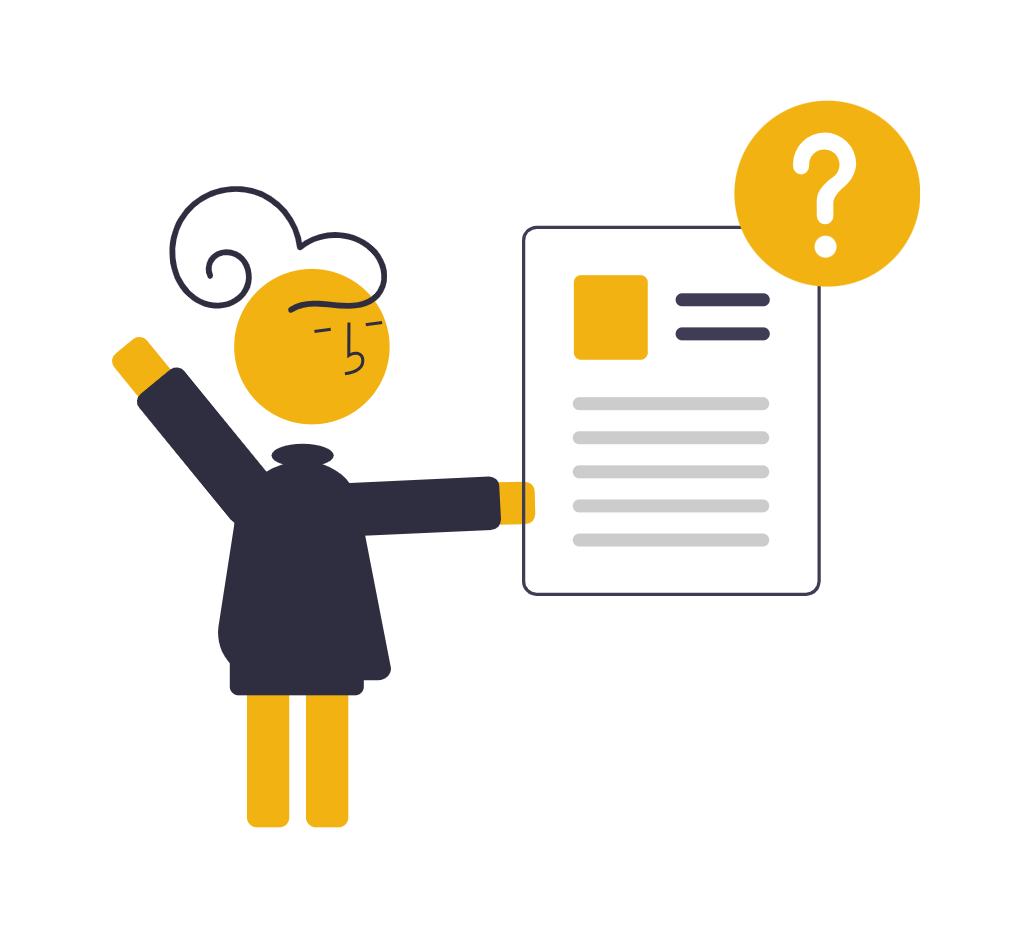
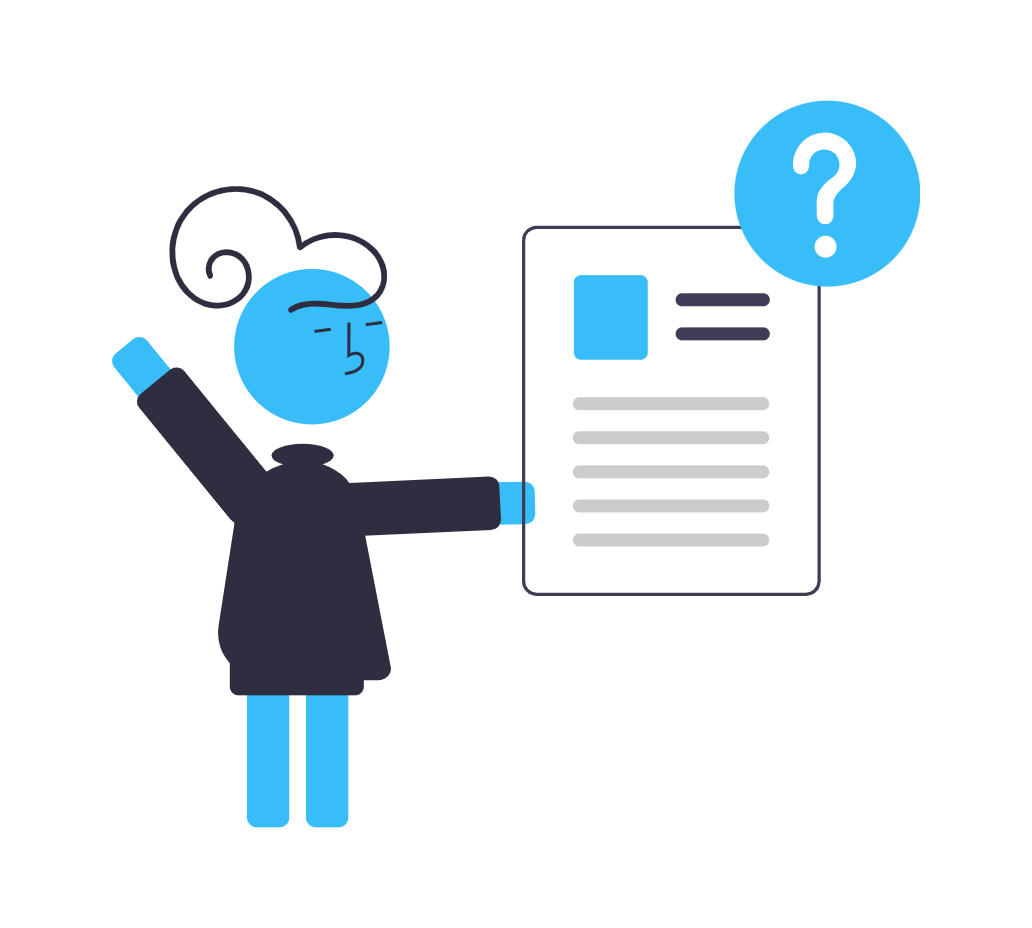
finalll

diff --git a/pages/instructor_dashboard.php b/pages/instructor_dashboard.php
@@ -83,7 +83,7 @@ if (isset($_SESSION['course_message'])) {
                 <nav class="hidden md:flex items-center space-x-6">
                     <?php foreach ($menuItems as $item): ?>
                         <a href="<?= htmlspecialchars($item[1]) ?>"
-                            class="text-gray-900 hover:text-yellow-500 transition-colors">
+                            class="text-gray-900 hover:text-blue-500 transition-colors">
                             <?= htmlspecialchars($item[0]) ?>
                         </a>
                     <?php endforeach; ?>
@@ -91,9 +91,9 @@ if (isset($_SESSION['course_message'])) {
                 <div class="flex items-center space-x-4">
                     <?php if (!$isLoggedIn): ?>
                         <a href="./login.php"
-                            class="p-2 px-4 bg-yellow-400 text-white rounded-full hover:bg-white hover:text-yellow-400 hover:border hover:border-yellow-400 transition-colors">Login</a>
+                            class="p-2 px-4 bg-blue-400 text-white rounded-full hover:bg-white hover:text-blue-400 hover:border hover:border-blue-400 transition-colors">Login</a>
                         <a href="./register.php"
-                            class="p-2 px-4 border border-yellow-400 text-yellow-400 rounded-full hover:bg-yellow-400 hover:text-white transition-colors">Register</a>
+                            class="p-2 px-4 border border-blue-400 text-blue-400 rounded-full hover:bg-blue-400 hover:text-white transition-colors">Register</a>
                     <?php else: ?>
                         <a href="./logout.php"
                             class="p-2 px-4 bg-red-400 text-white rounded-full hover:bg-white hover:text-red-400 hover:border hover:border-red-400 transition-colors">Logout</a>
@@ -109,7 +109,7 @@ if (isset($_SESSION['course_message'])) {
                 <div class="p-5">
                     <div class="flex items-center">
                         <div class="flex-shrink-0">
-                            <i class="ri-book-open-line text-2xl text-yellow-400"></i>
+                            <i class="ri-book-open-line text-2xl text-blue-400"></i>
                         </div>
                         <div class="ml-5 w-0 flex-1">
                             <dl>
@@ -126,7 +126,7 @@ if (isset($_SESSION['course_message'])) {
                 <div class="p-5">
                     <div class="flex items-center">
                         <div class="flex-shrink-0">
-                            <i class="ri-user-line text-2xl text-yellow-400"></i>
+                            <i class="ri-user-line text-2xl text-blue-400"></i>
                         </div>
                         <div class="ml-5 w-0 flex-1">
                             <dl>
@@ -141,7 +141,7 @@ if (isset($_SESSION['course_message'])) {
                 <div class="p-5">
                     <div class="flex items-center">
                         <div class="flex-shrink-0">
-                            <i class="ri-bar-chart-line text-2xl text-yellow-400"></i>
+                            <i class="ri-bar-chart-line text-2xl text-blue-400"></i>
                         </div>
                         <div class="ml-5 w-0 flex-1">
                             <dl>
@@ -161,7 +161,7 @@ if (isset($_SESSION['course_message'])) {
             <div class="px-4 py-5 sm:px-6 flex justify-between items-center">
                 <h2 class="text-xl font-semibold text-gray-900">Course Management</h2>
                 <button id="newCourseBtn"
-                    class="inline-flex items-center px-4 py-2 border border-transparent rounded-full shadow-sm text-sm font-medium text-white bg-yellow-400 hover:bg-yellow-500">
+                    class="inline-flex items-center px-4 py-2 border border-transparent rounded-full shadow-sm text-sm font-medium text-white bg-blue-400 hover:bg-blue-500">
                     <i class="ri-add-line mr-2"></i>
                     New Course
                 </button>
@@ -199,7 +199,7 @@ if (isset($_SESSION['course_message'])) {
                                     </td>
                                     <td class="px-6 py-4 whitespace-nowrap">
                                         <span
-                                            class="px-2 inline-flex text-xs leading-5 font-semibold rounded-full bg-yellow-100 text-yellow-800">
+                                            class="px-2 inline-flex text-xs leading-5 font-semibold rounded-full bg-blue-100 text-blue-800">
                                             <?= htmlspecialchars($course['category'] ?: 'Uncategorized'); ?>
                                         </span>
                                     </td>
@@ -214,7 +214,7 @@ if (isset($_SESSION['course_message'])) {
                                     </td>
                                     <td class="px-6 py-4 whitespace-nowrap text-right text-sm font-medium">
 
-                                        <button class="text-yellow-600 hover:text-yellow-900 mr-4"
+                                        <button class="text-blue-600 hover:text-blue-900 mr-4"
                                             onclick="window.location.href='editCourse.php?id=<?php echo $course['id']; ?>'">
                                             <i class="ri-edit-line text-lg"></i>
                                         </button>
@@ -245,14 +245,14 @@ if (isset($_SESSION['course_message'])) {
                     <div>
                         <label for="title" class="block text-sm font-medium text-gray-700 mb-4">Title</label>
                         <input type="text" name="title" id="title" required
-                            class="mt-1 block w-full rounded-md p-2 border border-gray-200 shadow-sm focus:border-yellow-500 focus:ring-yellow-500">
+                            class="mt-1 block w-full rounded-md p-2 border border-gray-200 shadow-sm focus:border-blue-500 focus:ring-blue-500">
                     </div>
 
                     <div>
                         <label for="description"
                             class="block text-sm font-medium text-gray-700 mb-4">Description</label>
                         <textarea id="description" name="description" rows="3" required
-                            class="mt-1 block w-full rounded-md border border-gray-200 shadow-sm focus:border-yellow-500 focus:ring-yellow-500"></textarea>
+                            class="mt-1 block w-full rounded-md border border-gray-200 shadow-sm focus:border-blue-500 focus:ring-blue-500"></textarea>
                     </div>
 
                     <div class="grid grid-cols-3 gap-4">
@@ -261,7 +261,7 @@ if (isset($_SESSION['course_message'])) {
                             <div class="relative">
                                 <span class="absolute inset-y-0 left-0 pl-3 flex items-center text-gray-500">$</span>
                                 <input type="number" name="price" id="price" min="0" step="0.01" required
-                                    class="mt-1 block w-full rounded-md p-2 pl-7 border border-gray-200 shadow-sm focus:border-yellow-500 focus:ring-yellow-500">
+                                    class="mt-1 block w-full rounded-md p-2 pl-7 border border-gray-200 shadow-sm focus:border-blue-500 focus:ring-blue-500">
                             </div>
                         </div>
 
@@ -269,7 +269,7 @@ if (isset($_SESSION['course_message'])) {
                             <label for="difficulty"
                                 class="block text-sm font-medium text-gray-700 mb-4">Difficulty</label>
                             <select id="difficulty" name="difficulty" required
-                                class="mt-1 block w-full rounded-md p-2 border border-gray-200 shadow-sm focus:border-yellow-500 focus:ring-yellow-500">
+                                class="mt-1 block w-full rounded-md p-2 border border-gray-200 shadow-sm focus:border-blue-500 focus:ring-blue-500">
                                 <option value="Beginner">Beginner</option>
                                 <option value="Intermediate">Intermediate</option>
                                 <option value="Advanced">Advanced</option>
@@ -283,7 +283,7 @@ if (isset($_SESSION['course_message'])) {
                                     <div class="relative">
                                         <input type="number" name="duration_hours" id="duration_hours" min="0"
                                             placeholder="0" required
-                                            class="mt-1 block w-full rounded-md p-2 pr-14 border border-gray-200 shadow-sm focus:border-yellow-500 focus:ring-yellow-500 text-center">
+                                            class="mt-1 block w-full rounded-md p-2 pr-14 border border-gray-200 shadow-sm focus:border-blue-500 focus:ring-blue-500 text-center">
                                         <span
                                             class="absolute inset-y-0 right-0 pr-3 flex items-center text-gray-500 text-sm">hours</span>
                                     </div>
@@ -292,7 +292,7 @@ if (isset($_SESSION['course_message'])) {
                                     <div class="relative">
                                         <input type="number" name="duration_minutes" id="duration_minutes" min="0"
                                             max="59" placeholder="0" required
-                                            class="mt-1 block w-full rounded-md p-2 pr-16 border border-gray-200 shadow-sm focus:border-yellow-500 focus:ring-yellow-500 text-center">
+                                            class="mt-1 block w-full rounded-md p-2 pr-16 border border-gray-200 shadow-sm focus:border-blue-500 focus:ring-blue-500 text-center">
                                         <span
                                             class="absolute inset-y-0 right-0 pr-3 flex items-center text-gray-500 text-sm">mins</span>
                                     </div>
@@ -308,7 +308,7 @@ if (isset($_SESSION['course_message'])) {
                             <div class="space-y-1 text-center">
                                 <div class="flex text-sm text-gray-600 justify-center">
                                     <label for="file-upload-thumbnail"
-                                        class="relative cursor-pointer text-center bg-white rounded-md font-medium text-yellow-400 hover:text-yellow-500 focus-within:outline-none focus-within:ring-2 focus-within:ring-offset-2 focus-within:ring-yellow-500">
+                                        class="relative cursor-pointer text-center bg-white rounded-md font-medium text-blue-400 hover:text-blue-500 focus-within:outline-none focus-within:ring-2 focus-within:ring-offset-2 focus-within:ring-blue-500">
                                         <span class="text-center">Upload thumbnail</span>
                                         <input id="file-upload-thumbnail" name="file-upload-thumbnail" type="file"
                                             required class="sr-only">
@@ -323,7 +323,7 @@ if (isset($_SESSION['course_message'])) {
                     <div>
                         <label for="category" class="block text-sm font-medium text-gray-700 mb-4">Category</label>
                         <select id="category" name="category" required
-                            class="mt-1 block p-2 w-full rounded-md border border-gray-200 shadow-sm focus:border-yellow-500 focus:ring-yellow-500">
+                            class="mt-1 block p-2 w-full rounded-md border border-gray-200 shadow-sm focus:border-blue-500 focus:ring-blue-500">
                             <?php
                             foreach ($categories as $cat) {
                                 echo "<option value=\"" . $cat['id'] . "\">" . htmlspecialchars($cat['name']) . "</option>";
@@ -339,7 +339,7 @@ if (isset($_SESSION['course_message'])) {
                         <div id="available-tags" class="space-y-2 space-x-1">
                             <?php
                             foreach ($tags as $tag) {
-                                echo "<div class='tag-item space-x-2 inline-block p-2 px-4 border border-yellow-400 rounded-full cursor-pointer hover:bg-yellow-400' data-tag-id='" . $tag['id'] . "'>
+                                echo "<div class='tag-item space-x-2 inline-block p-2 px-4 border border-blue-400 rounded-full cursor-pointer hover:bg-blue-400' data-tag-id='" . $tag['id'] . "'>
                                           <span class='tag-name'>" . htmlspecialchars($tag['name']) . "</span>
                                       </div>";
                             }
@@ -372,7 +372,7 @@ if (isset($_SESSION['course_message'])) {
                                 <div class="space-y-1">
                                     <div class="flex text-sm text-gray-600 text-center justify-center">
                                         <label for="file-upload-video"
-                                            class="relative cursor-pointer bg-white rounded-md font-medium text-yellow-400 hover:text-yellow-400 focus-within:outline-none focus-within:ring-2 focus-within:ring-offset-2 focus-within:ring-yellow-500">
+                                            class="relative cursor-pointer bg-white rounded-md font-medium text-blue-400 hover:text-blue-400 focus-within:outline-none focus-within:ring-2 focus-within:ring-offset-2 focus-within:ring-blue-500">
                                             <span>Upload video</span>
                                             <input id="file-upload-video" name="file-upload-video" type="file"
                                                 class="sr-only">
@@ -391,7 +391,7 @@ if (isset($_SESSION['course_message'])) {
                                 <div class="space-y-1 text-center">
                                     <div class="flex text-sm text-gray-600 justify-center">
                                         <label for="file-upload-document"
-                                            class="relative cursor-pointer text-center bg-white rounded-md font-medium text-yellow-400 hover:text-yellow-500 focus-within:outline-none focus-within:ring-2 focus-within:ring-offset-2 focus-within:ring-yellow-500">
+                                            class="relative cursor-pointer text-center bg-white rounded-md font-medium text-blue-400 hover:text-blue-500 focus-within:outline-none focus-within:ring-2 focus-within:ring-offset-2 focus-within:ring-blue-500">
                                             <span class="text-center">Upload file</span>
                                             <input id="file-upload-document" name="file-upload-document" type="file"
                                                 class="sr-only">
@@ -406,7 +406,7 @@ if (isset($_SESSION['course_message'])) {
 
                     <div class="flex justify-end">
                         <button type="submit"
-                            class="inline-flex justify-center py-2 px-4 border border-transparent shadow-sm text-sm font-medium rounded-full text-white bg-yellow-400 hover:bg-yellow-500 focus:outline-none focus:ring-2 focus:ring-offset-2 focus:ring-yellow-500">
+                            class="inline-flex justify-center py-2 px-4 border border-transparent shadow-sm text-sm font-medium rounded-full text-white bg-blue-400 hover:bg-blue-500 focus:outline-none focus:ring-2 focus:ring-offset-2 focus:ring-blue-500">
                             Create Course
                         </button>
                     </div>
@@ -415,28 +415,28 @@ if (isset($_SESSION['course_message'])) {
         </div>
 
         <!-- Footer Section -->
-        <footer class="bg-yellow-10 py-16">
+        <footer class="bg-blue-10 py-16">
             <div>
                 <div class="mb-16">
                     <div class="grid grid-cols-2 md:grid-cols-4 gap-4 mt-8">
                         <div
-                            class="bg-yellow-50 p-6 rounded-lg text-center hover:bg-transparent hover:border hover:border-yellow-400 hover:scale-95 transition-transform duration-300">
-                            <i class="ri-team-line text-2xl text-yellow-500 mb-2"></i>
+                            class="bg-blue-50 p-6 rounded-lg text-center hover:bg-transparent hover:border hover:border-blue-400 hover:scale-95 transition-transform duration-300">
+                            <i class="ri-team-line text-2xl text-blue-500 mb-2"></i>
                             <p class="font-medium">Community</p>
                         </div>
                         <div
-                            class="bg-yellow-50 p-6 rounded-lg text-center hover:bg-transparent hover:border hover:border-yellow-400 hover:scale-95 transition-transform duration-300">
-                            <i class="ri-link text-2xl text-yellow-500 mb-2"></i>
+                            class="bg-blue-50 p-6 rounded-lg text-center hover:bg-transparent hover:border hover:border-blue-400 hover:scale-95 transition-transform duration-300">
+                            <i class="ri-link text-2xl text-blue-500 mb-2"></i>
                             <p class="font-medium">Referrals</p>
                         </div>
                         <div
-                            class="bg-yellow-50 p-6 rounded-lg text-center hover:bg-transparent hover:border hover:border-yellow-400 hover:scale-95 transition-transform duration-300">
-                            <i class="ri-book-2-line text-2xl text-yellow-500 mb-2"></i>
+                            class="bg-blue-50 p-6 rounded-lg text-center hover:bg-transparent hover:border hover:border-blue-400 hover:scale-95 transition-transform duration-300">
+                            <i class="ri-book-2-line text-2xl text-blue-500 mb-2"></i>
                             <p class="font-medium">Assignments</p>
                         </div>
                         <div
-                            class="bg-yellow-50 p-6 rounded-lg text-center  hover:bg-transparent hover:border hover:border-yellow-400 hover:scale-95 transition-transform duration-300">
-                            <i class="ri-medal-line text-2xl text-yellow-500 mb-2"></i>
+                            class="bg-blue-50 p-6 rounded-lg text-center  hover:bg-transparent hover:border hover:border-blue-400 hover:scale-95 transition-transform duration-300">
+                            <i class="ri-medal-line text-2xl text-blue-500 mb-2"></i>
                             <p class="font-medium">Certificates</p>
                         </div>
                     </div>
@@ -452,21 +452,21 @@ if (isset($_SESSION['course_message'])) {
                             vulputate sapien nec sagittis.</p>
                         <div class="flex gap-4">
                             <div
-                                class="h-9 w-9 bg-yellow-400 flex justify-center items-center rounded-lg hover:border hover:border-yellow-400 hover:bg-transparent hover:text-yellow-400">
+                                class="h-9 w-9 bg-blue-400 flex justify-center items-center rounded-lg hover:border hover:border-blue-400 hover:bg-transparent hover:text-blue-400">
                                 <a href="#" class="p-2 transition-colors">
                                     <i class="ri-facebook-fill text-xl "></i>
                                 </a>
                             </div>
 
                             <div
-                                class="h-9 w-9 bg-yellow-400 flex justify-center items-center rounded-lg hover:border hover:border-yellow-400 hover:bg-transparent hover:text-yellow-400">
+                                class="h-9 w-9 bg-blue-400 flex justify-center items-center rounded-lg hover:border hover:border-blue-400 hover:bg-transparent hover:text-blue-400">
                                 <a href="#" class="p-2 transition-colors">
                                     <i class="ri-instagram-line text-xl "></i>
                                 </a>
                             </div>
 
                             <div
-                                class="h-9 w-9 bg-yellow-400 flex justify-center items-center rounded-lg hover:border hover:border-yellow-400 hover:bg-transparent hover:text-yellow-400">
+                                class="h-9 w-9 bg-blue-400 flex justify-center items-center rounded-lg hover:border hover:border-blue-400 hover:bg-transparent hover:text-blue-400">
                                 <a href="#" class="p-2 transition-colors">
                                     <i class="ri-youtube-fill text-xl "></i>
                                 </a>
@@ -499,9 +499,9 @@ if (isset($_SESSION['course_message'])) {
                         <h3 class="text-lg font-semibold mb-4">Our Newsletter</h3>
                         <div class="flex gap-2">
                             <input type="email" placeholder="Enter Your Email"
-                                class="flex-1 px-4 py-2 rounded-lg border border-gray-200 focus:outline-none focus:border-yellow-500">
+                                class="flex-1 px-4 py-2 rounded-lg border border-gray-200 focus:outline-none focus:border-blue-500">
                             <button
-                                class="px-6 py-2 bg-yellow-400 text-white rounded-lg hover:bg-yellow-500 transition-colors">Submit</button>
+                                class="px-6 py-2 bg-blue-400 text-white rounded-lg hover:bg-blue-500 transition-colors">Submit</button>
                         </div>
                         <p class="text-sm text-gray-600 mt-4">
                             By clicking "Subscribe", you agree to our

diff --git a/index.php b/index.php
@@ -39,19 +39,19 @@ $grid_courses = array_slice($courses, 0, 6);
 <!-- main container -->
     <div class="min-h-screen flex flex-col">
 
-        <div class="hidden md:block w-full bg-[#f2b212] text-white">
+        <div class="hidden md:block w-full bg-blue-400 text-white">
             <div class="container mx-auto px-4 py-2">
                 <div class="flex justify-between items-center text-sm">
                     <div class="flex items-center space-x-6">
                         <span class="flex items-center">
-                            <i class="ri-phone-line mr-2"></i> +212 772508881
+                            <i class="ri-phone-line mr-2"></i> +212 684153876
                         </span>
                         <span class="flex items-center">
-                            <i class="ri-mail-line mr-2"></i> contact@youdemy.com
+                            <i class="ri-mail-line mr-2"></i> contact@taalim.com
                         </span>
                     </div>
                     <span class="flex items-center">
-                        <i class="ri-map-pin-line mr-2"></i> Massira N641 Safi, Morocco
+                        <i class="ri-map-pin-line mr-2"></i> Ennehda N641 Chichaoua, Morocco
                     </span>
                 </div>
             </div>
@@ -102,10 +102,10 @@ $grid_courses = array_slice($courses, 0, 6);
                 <div class="text-center space-y-6">
                     <h1 class="text-4xl md:text-5xl font-bold">
                         Learn Anything, Anytime, Anywhere <br>
-                        <span class="text-gradient md:leading-relaxed">Your Future Starts Here</span>
+                        <span class="text-blue-700 md:leading-relaxed">Your Future Starts Here</span>
                     </h1>
                     <p class="text-gray-600 md:text-lg">
-                        Empower Your Mind with World-Class Learning – Join Youdemy Today
+                        Empower Your Mind with World-Class Learning – Join Taalim Today
                     </p>
 
                     <!-- Search Form -->

diff --git a/pages/course-view.php b/pages/course-view.php
@@ -24,7 +24,6 @@ if (!$course->isUserEnrolled($studentId, $courseId)) {
     exit;
 }
 
-
 if (!$courseDetails) {
     die("Course not found");
 }
@@ -125,7 +124,7 @@ if (!$courseDetails) {
     <!-- Header container -->
     <div class="flex flex-col">
 
-        <div class="hidden md:block w-full bg-[#f2b212] text-white">
+        <div class="hidden md:block w-full bg-blue-400 text-white">
             <div class="container mx-auto px-4 py-2">
                 <div class="flex justify-between items-center text-sm">
                     <div class="flex items-center space-x-6">
@@ -200,7 +199,7 @@ if (!$courseDetails) {
             <div class="w-[70%] border p-2 rounded-lg shadow-sm px-6 pb-8 pt-6">
                 <h3 class="font-semibold mb-2 text-xl pb-3 border-b text-blue-400 mb-3">Course Video</h3>
                 <div class="relative aspect-video rounded-lg overflow-hidden ">
-                    <video controls poster="../uploads/thumbnails/<?= htmlspecialchars($courseDetails['thumbnail']) ?>">
+                    <video controls poster="../uploads/thumbnails/<?= htmlspecialchars($courseDetails['thumbnail']);?>">
                         <source src="../uploads/videos/<?= htmlspecialchars($courseDetails['videoUrl']) ?>"
                             type="video/mp4">
                     </video>

diff --git a/classes/admin.php b/classes/admin.php
@@ -135,9 +135,10 @@ class Admin extends User {
         if ($stmt->execute()) {
             $result = $stmt->get_result();
             $row = $result->fetch_assoc();
-            return $row['averageRate'];
+            return $row['averageRate'] ?? 0.0;
         }
-        return null; 
+       
+        return 0.0; 
     }
 
     public function getTotalEnrollment() {

diff --git a/pages/register.php b/pages/register.php
@@ -54,8 +54,8 @@ if ($_SERVER['REQUEST_METHOD'] === 'POST' && isset($_POST['submit'])) {
 <body>
     <style>
         .selected {
-            border-color: #fbbf24;
-            color: #fbbf24;
+            border-color:rgb(36, 172, 251);
+            color: rgb(36, 172, 251);
         }
     </style>
 
